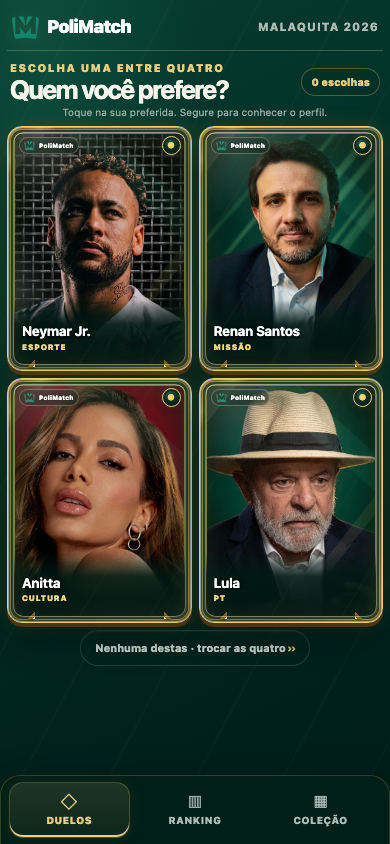
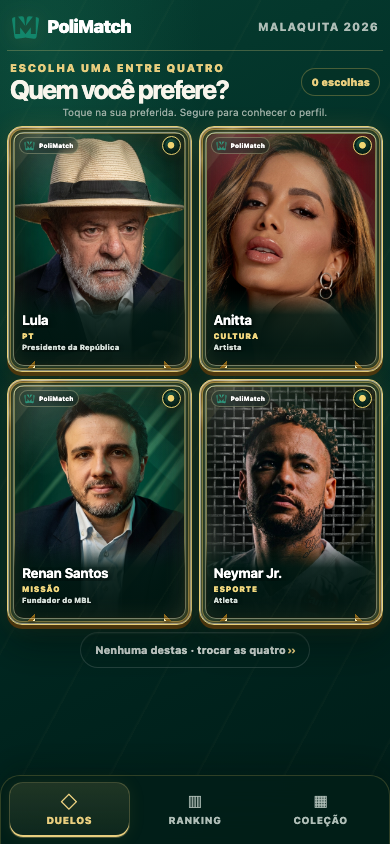
fix: complete four-card upgrade path

diff --git a/back/src/topic-store.js b/back/src/topic-store.js
@@ -194,6 +194,19 @@ async function createCleanSchema(client) {
     ALTER TABLE votes
       ADD COLUMN IF NOT EXISTS round_id uuid REFERENCES choice_rounds(round_id) ON DELETE RESTRICT;
 
+    DROP TRIGGER IF EXISTS votes_are_immutable ON votes;
+
+    UPDATE votes AS comparison
+    SET round_id = round.round_id
+    FROM choice_rounds AS round
+    WHERE comparison.round_id IS NULL
+      AND comparison.topic_id = round.topic_id
+      AND comparison.winner_id = round.winner_id
+      AND comparison.player_id IS NOT DISTINCT FROM round.player_id
+      AND comparison.created_at = round.created_at
+      AND comparison.loser_id = ANY(round.candidate_ids)
+      AND comparison.loser_id <> round.winner_id;
+
     CREATE TABLE IF NOT EXISTS chroma_catalog (
       id text PRIMARY KEY,
       candidate_id text NOT NULL,

diff --git a/back/src/topic-store.test.js b/back/src/topic-store.test.js
@@ -72,6 +72,7 @@ test("four-card choices keep one immutable round and three auditable comparisons
   assert.match(source, /CREATE TABLE IF NOT EXISTS choice_rounds/);
   assert.match(source, /CHECK \(array_length\(candidate_ids, 1\) = 4\)/);
   assert.match(source, /ADD COLUMN IF NOT EXISTS round_id uuid REFERENCES choice_rounds\(round_id\)/);
+  assert.match(source, /UPDATE votes AS comparison[\s\S]*comparison\.created_at = round\.created_at/);
   assert.match(source, /comparisons: 3/);
   assert.match(source, /INSERT INTO choice_rounds[\s\S]*INSERT INTO votes/);
   assert.match(source, /const winnerRatingBeforeRound = globalRatings\.get\(winnerId\)/);

diff --git a/README.md b/README.md
@@ -87,9 +87,22 @@ Não edite essas saídas manualmente. Corrija a entrada e execute o importador n
 | `GET` | `/api/ranking?topic=eleicoes-2026` | ranking agregado |
 | `POST` | `/api/player` | cria identidade anônima e chave de recuperação |
 | `GET` | `/api/player/state?topic=eleicoes-2026` | ranking pessoal; exige chave Bearer |
-| `POST` | `/api/vote` | confirma um duelo global e pessoal numa transação |
+| `POST` | `/api/round-vote` | confirma uma escolha entre quatro pessoas numa transação; exige `roundId`, `winnerId`, quatro `candidateIds` únicos e `playerVersion` |
+| `POST` | `/api/vote` | endpoint binário aposentado; responde `410 ROUND_V4_REQUIRED` para impedir contagem incompatível por clientes antigos |
 
-O PostgreSQL guarda somente o hash da chave de recuperação. Votos possuem UUID idempotente e são imutáveis.
+Exemplo do corpo atual:
+
+```json
+{
+  "roundId": "550e8400-e29b-41d4-a716-446655440000",
+  "winnerId": "lula",
+  "candidateIds": ["lula", "jair-bolsonaro", "anitta", "neymar-jr"],
+  "topicId": "eleicoes-2026",
+  "playerVersion": 3
+}
+```
+
+O PostgreSQL guarda somente o hash da chave de recuperação. A rodada é idempotente e imutável; ela avança a escolha uma vez e mantém três comparações Elo vinculadas ao mesmo `roundId`.
 
 ## Deploy no Dokploy
 

diff --git a/stages/10_rebuild_eleicoes_2026/output/HANDOFF.md b/stages/10_rebuild_eleicoes_2026/output/HANDOFF.md
@@ -112,4 +112,6 @@ Estado: rodada principal de quatro cartas publicada; endurecimento da revisão e
 
 ## Human gate
 
-Status: usuário autorizou em 15/09/2026 a liberação dos 54 perfis e pediu a substituição do duelo binário por uma rodada de quatro cartas; implementação vinculada à Issue #143 aguarda PR e publicação.
+Status da entrega principal: usuário autorizou os 54 perfis e a rodada de quatro cartas; Issue #143 e PR #144 foram implementados, mesclados e publicados em 15/09/2026.
+
+Status do endurecimento: as correções de auditoria e responsividade da Issue #145 estão no PR #146 e permanecem pendentes de mesclagem e republicação até o novo gate técnico terminar.
